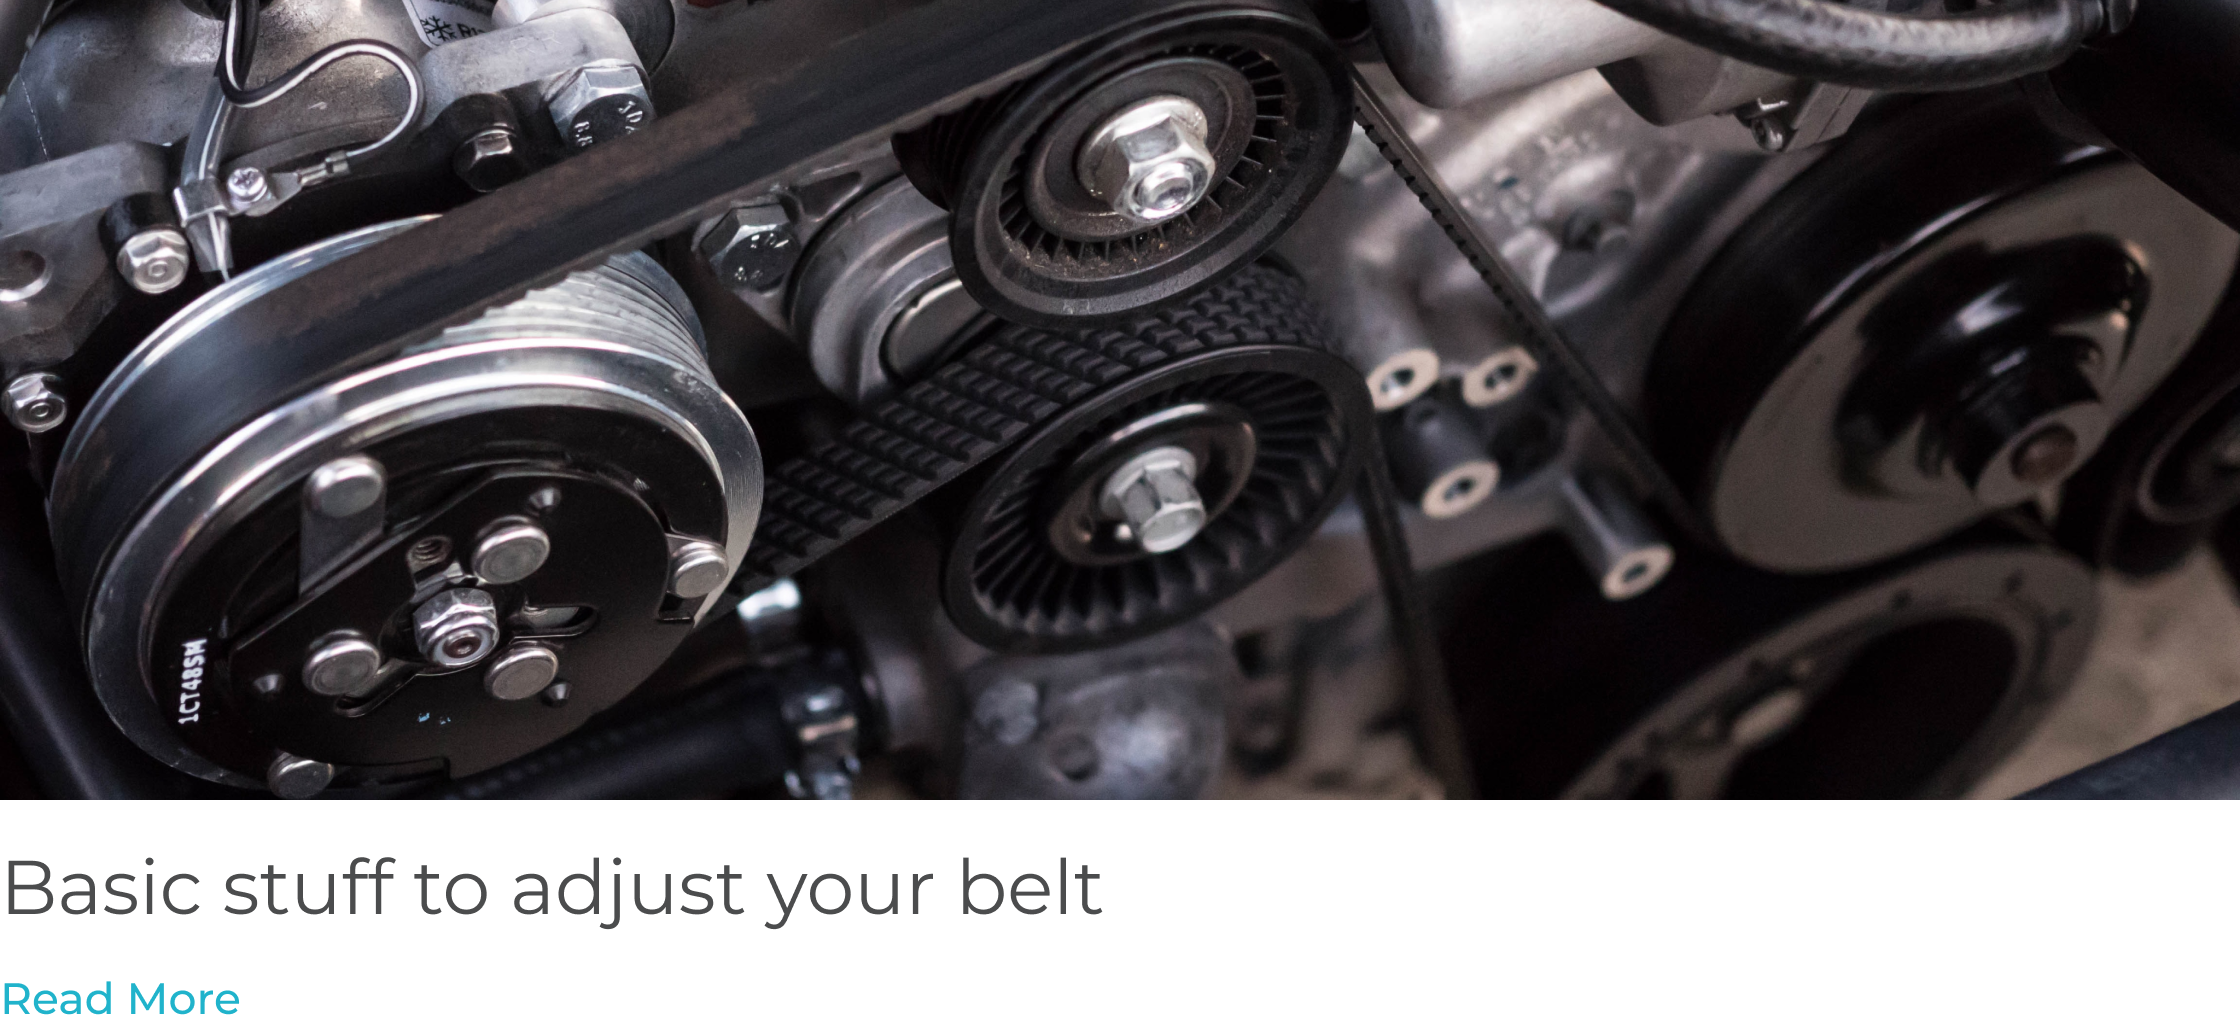
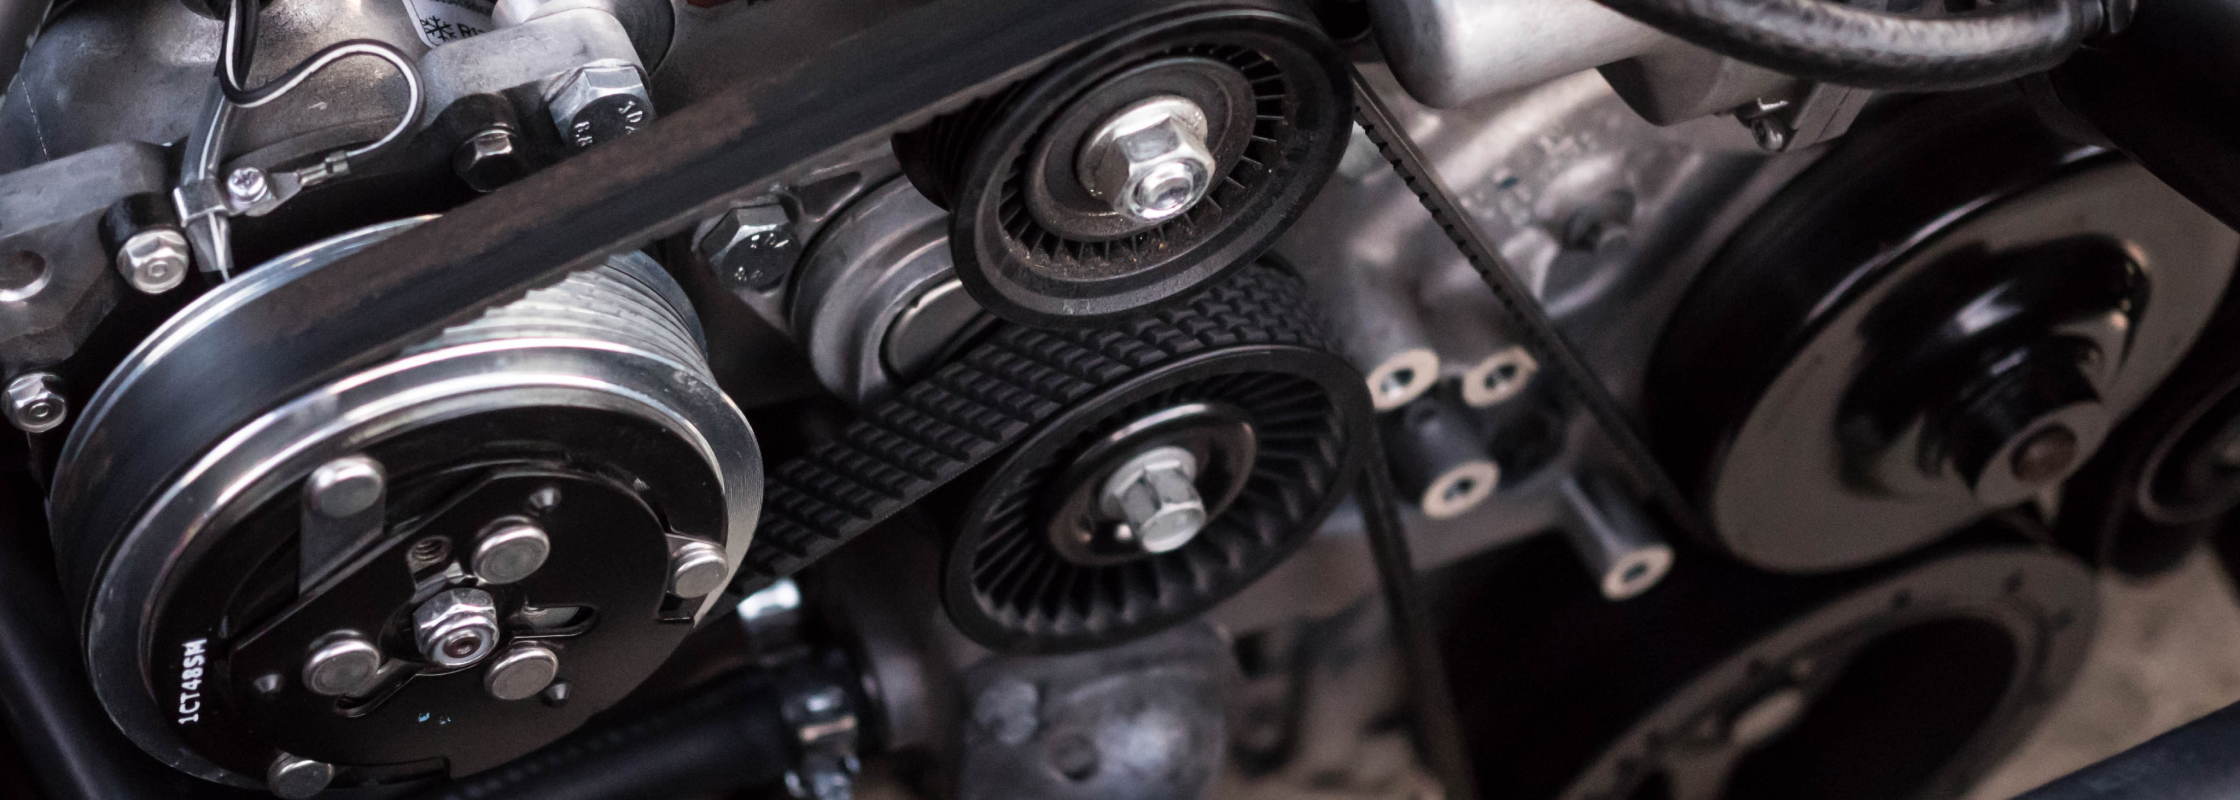
structuring blog layout

diff --git a/src/components/blog/Blog.js b/src/components/blog/Blog.js
@@ -1,25 +1,31 @@
 import React from "react";
+import "./Blog.css";
+
+import { blog1, blog2, blog3 } from "../../assets";
 
 const Blog = () => {
   return (
     <div className="blog-container">
-      <div className="mini-blog">
-        {/* <img src="" alt="" /> */}
-        <h3>Check Your Engine Now!</h3>
-        <button>Read More</button>
-        <hr />
-      </div>
-      <div className="mini-blog">
-        {/* <img src="" alt="" /> */}
-        <h3>I'm Tired With Tires</h3>
-        <button>Read More</button>
-        <hr />
-      </div>
-      <div className="full-blog">
-        {/* <img src="" alt="" /> */}
-        <h3>Basic stuff to adjust your belt</h3>
-        <button>Read More</button>
-        <hr />
+      <h2 className="blog-title">Blog</h2>
+      <div className="blog-content">
+        <div className="mini-blog">
+          <img src={blog1} alt="" />
+          <h3>Check Your Engine Now!</h3>
+          <button>Read More</button>
+          <hr />
+        </div>
+        <div className="mini-blog">
+          <img src={blog2} alt="" />
+          <h3>I'm Tired With Tires</h3>
+          <button>Read More</button>
+          <hr />
+        </div>
+        <div className="full-blog">
+          <img src={blog3} alt="" />
+          <h3>Basic stuff to adjust your belt</h3>
+          <button>Read More</button>
+          <hr />
+        </div>
       </div>
     </div>
   );

diff --git a/src/components/blog/Blog.css b/src/components/blog/Blog.css
@@ -1,0 +1,36 @@
+.blog-title {
+  font-size: 48px;
+  font-family: var(--font-main);
+  color: var(--color-black-75);
+}
+.blog-content {
+  display: flex;
+  flex-direction: row;
+  flex-wrap: wrap;
+}
+.mini-blog {
+  flex-grow: 1;
+}
+.mini-blog img {
+  width: 520px;
+}
+.mini-blog h3,
+.full-blog h3 {
+  font-family: var(--font-main);
+  font-size: 36px;
+  font-weight: 300;
+  color: var(--color-black-75);
+}
+.mini-blog button,
+.full-blog button {
+  border: none;
+  font-size: 20px;
+  background-color: transparent;
+  color: var(--color-blue);
+}
+.full-blog {
+  flex-grow: 2;
+}
+.full-blog img {
+  width: 1120px;
+}
